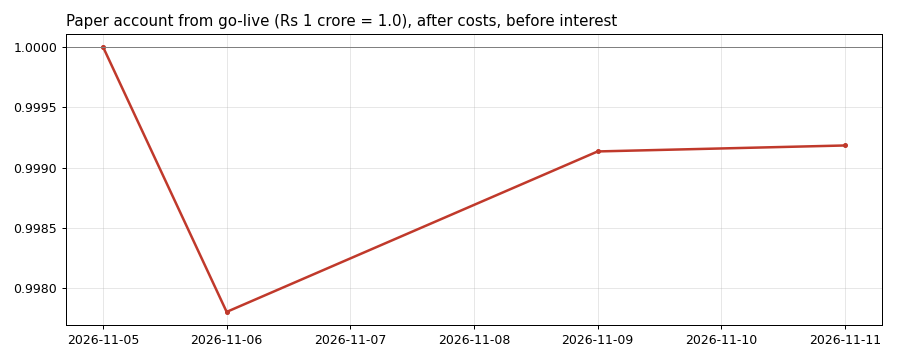
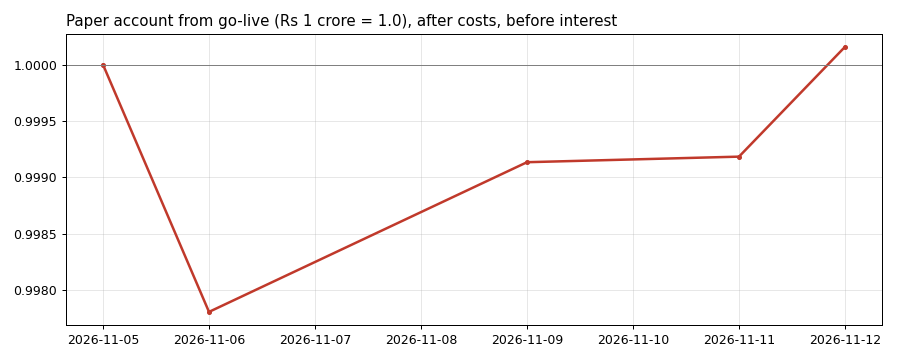
records 2026-11-12

diff --git a/README.md b/README.md
@@ -19,7 +19,7 @@ costs, and fills capped by each option's traded volume.
 <!-- live:start -->
 | Live since | Days valued | Account (paper, Rs) | Return since go-live | Last result | Latest fingerprint |
 |---|---|---|---|---|---|
-| 05 Nov 2026 | 3 | 9,991,830 | -0.08% | +0.00% (2026-11-09 book, valued 2026-11-11) | `fe0a9030b05b...` decided 2026-11-11 at 15:14:12 IST |
+| 05 Nov 2026 | 4 | 10,001,580 | +0.02% | +0.10% (2026-11-11 book, valued 2026-11-12) | `7ecc1cbedfcf...` decided 2026-11-12 at 15:14:21 IST |
 
 *Updated automatically by each day's run. Failed days: 0. Every row: [records/daily.csv](records/daily.csv).*
 <!-- live:end -->
